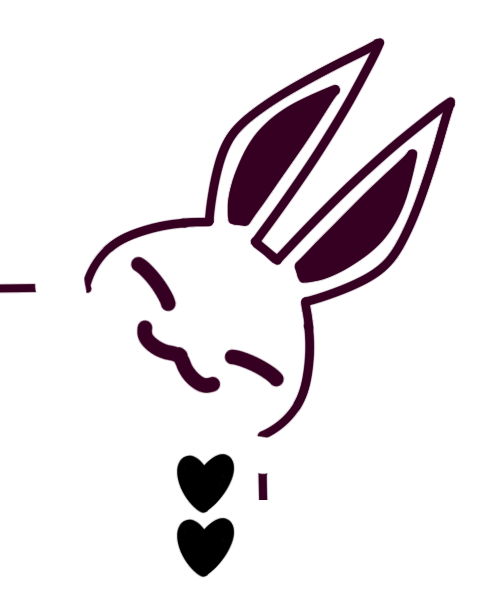
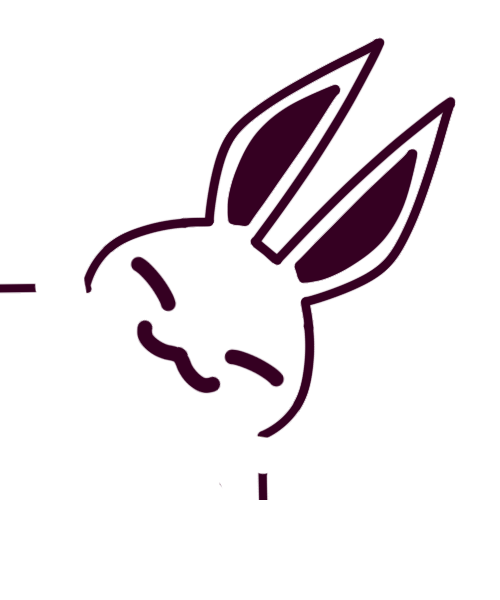
update img

Changed region(s): [[0.33, 0.75, 0.48, 0.96]]

diff --git a/src/components/EditorPanel.jsx b/src/components/EditorPanel.jsx
@@ -43,7 +43,7 @@ const EditorPanel = ({
                                 <input 
                                     type="range" 
                                     min="0" 
-                                    max="25" 
+                                    max="30" 
                                     value={bubbleBorderRadius} 
                                     onChange={(e) => setBubbleBorderRadius(Number(e.target.value))} 
                                     className="w-full h-1.5 bg-neutral-200 rounded-lg appearance-none cursor-pointer accent-indigo-500" 